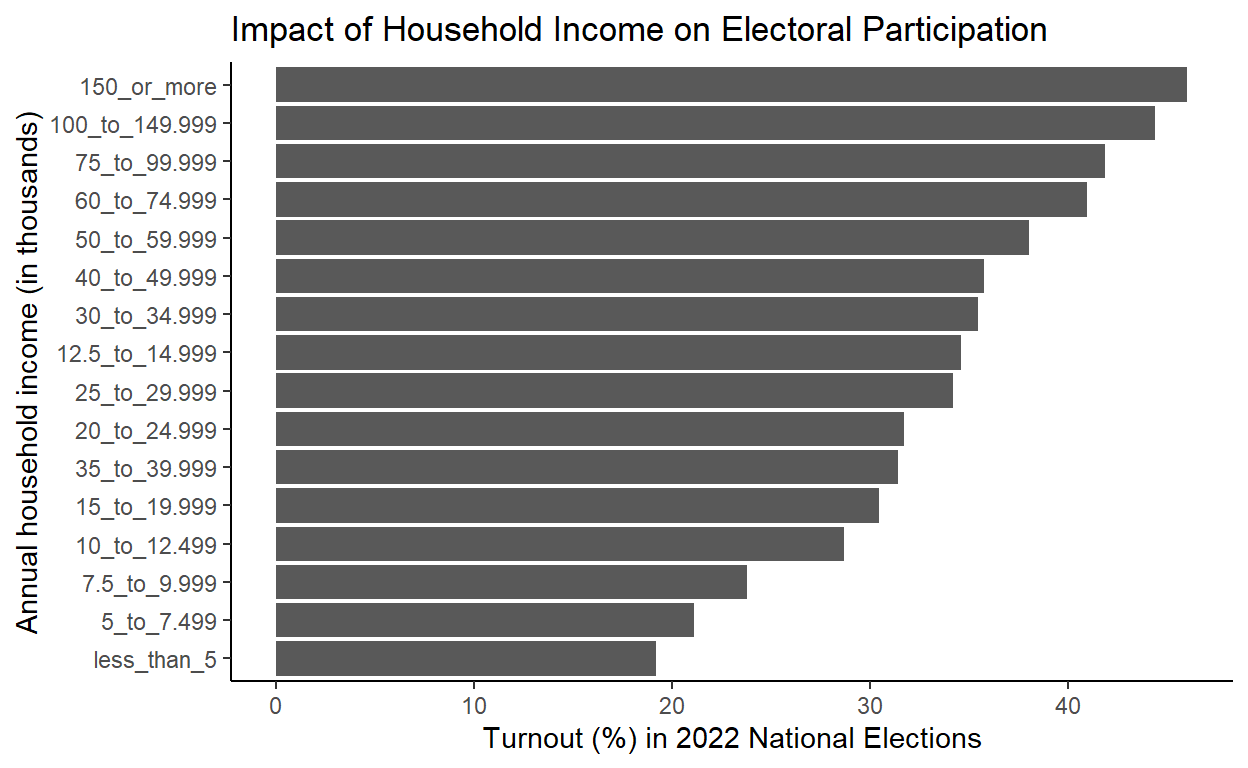
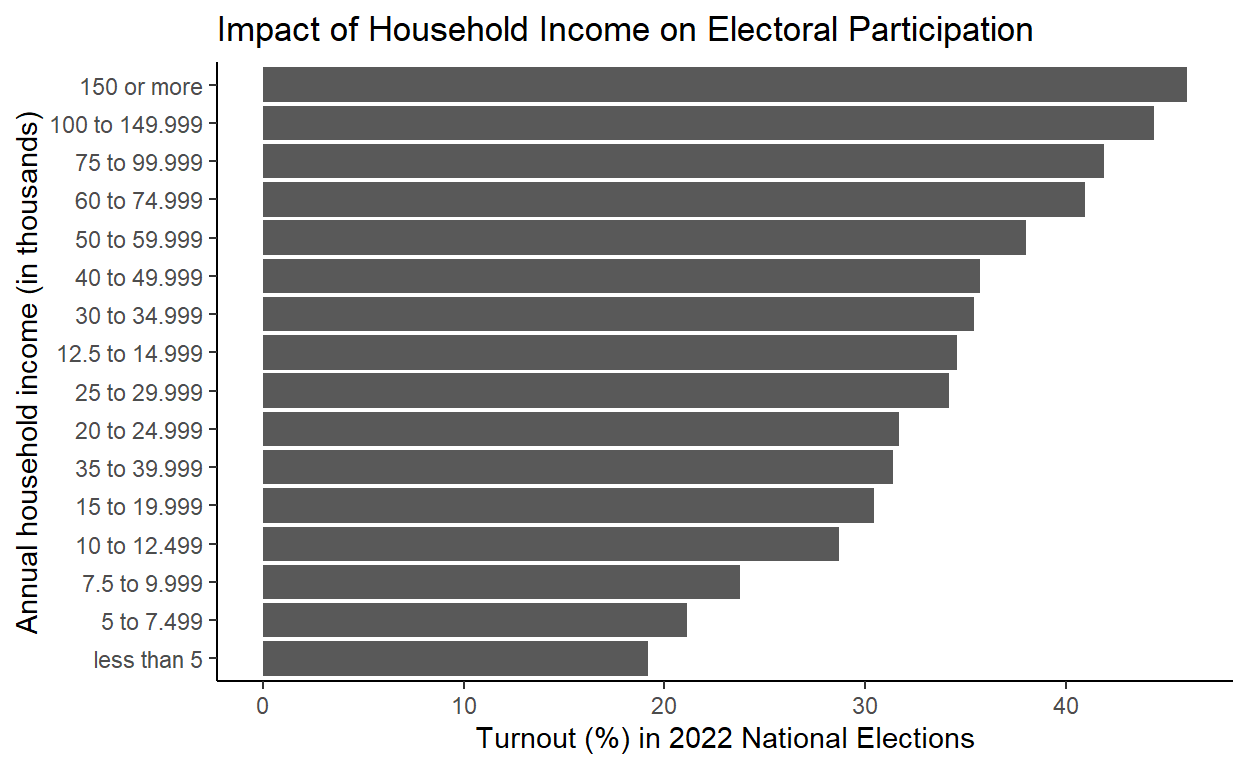
updated labels and names

diff --git a/index.html b/index.html
@@ -90,7 +90,7 @@ code span.wa { color: #5e5e5e; font-style: italic; } /* Warning */
   <!--radix_placeholder_meta_tags-->
   <title>Gov 50 Final Project</title>
 
-  <meta property="description" itemprop="description" content="Owen&#39;s final project, tentatively on the relationship between class of work and democratic participation."/>
+  <meta property="description" itemprop="description" content="Owen&#39;s final project on the relationship between employment class and democratic participation."/>
 
 
   <meta name="article:author" content="Owen Ebose"/>
@@ -98,19 +98,19 @@ code span.wa { color: #5e5e5e; font-style: italic; } /* Warning */
   <!--  https://developers.facebook.com/docs/sharing/webmasters#markup -->
   <meta property="og:title" content="Gov 50 Final Project"/>
   <meta property="og:type" content="article"/>
-  <meta property="og:description" content="Owen&#39;s final project, tentatively on the relationship between class of work and democratic participation."/>
+  <meta property="og:description" content="Owen&#39;s final project on the relationship between employment class and democratic participation."/>
   <meta property="og:locale" content="en_US"/>
 
   <!--  https://dev.twitter.com/cards/types/summary -->
   <meta property="twitter:card" content="summary"/>
   <meta property="twitter:title" content="Gov 50 Final Project"/>
-  <meta property="twitter:description" content="Owen&#39;s final project, tentatively on the relationship between class of work and democratic participation."/>
+  <meta property="twitter:description" content="Owen&#39;s final project on the relationship between employment class and democratic participation."/>
 
   <!--/radix_placeholder_meta_tags-->
   <!--radix_placeholder_rmarkdown_metadata-->
 
   <script type="text/json" id="radix-rmarkdown-metadata">
-  {"type":"list","attributes":{"names":{"type":"character","attributes":{},"value":["title","author","description","output"]}},"value":[{"type":"character","attributes":{},"value":["Gov 50 Final Project"]},{"type":"list","attributes":{},"value":[{"type":"list","attributes":{"names":{"type":"character","attributes":{},"value":["name"]}},"value":[{"type":"character","attributes":{},"value":["Owen Ebose"]}]}]},{"type":"character","attributes":{},"value":["Owen's final project, tentatively on the relationship between class of work and democratic participation."]},{"type":"list","attributes":{"names":{"type":"character","attributes":{},"value":["distill::distill_article"]}},"value":[{"type":"list","attributes":{"names":{"type":"character","attributes":{},"value":["self_contained"]}},"value":[{"type":"logical","attributes":{},"value":[false]}]}]}]}
+  {"type":"list","attributes":{"names":{"type":"character","attributes":{},"value":["title","author","description","output"]}},"value":[{"type":"character","attributes":{},"value":["Gov 50 Final Project"]},{"type":"list","attributes":{},"value":[{"type":"list","attributes":{"names":{"type":"character","attributes":{},"value":["name"]}},"value":[{"type":"character","attributes":{},"value":["Owen Ebose"]}]}]},{"type":"character","attributes":{},"value":["Owen's final project on the relationship between employment class and democratic participation."]},{"type":"list","attributes":{"names":{"type":"character","attributes":{},"value":["distill::distill_article"]}},"value":[{"type":"list","attributes":{"names":{"type":"character","attributes":{},"value":["self_contained"]}},"value":[{"type":"logical","attributes":{},"value":[false]}]}]}]}
   </script>
   <!--/radix_placeholder_rmarkdown_metadata-->
   
@@ -1493,7 +1493,7 @@ code span.wa { color: #5e5e5e; font-style: italic; } /* Warning */
 <!--radix_placeholder_front_matter-->
 
 <script id="distill-front-matter" type="text/json">
-{"title":"Gov 50 Final Project","description":"Owen's final project, tentatively on the relationship between class of work and democratic participation.","authors":[{"author":"Owen Ebose","authorURL":"#","affiliation":"&nbsp;","affiliationURL":"#","orcidID":""}]}
+{"title":"Gov 50 Final Project","description":"Owen's final project on the relationship between employment class and democratic participation.","authors":[{"author":"Owen Ebose","authorURL":"#","affiliation":"&nbsp;","affiliationURL":"#","orcidID":""}]}
 </script>
 
 <!--/radix_placeholder_front_matter-->
@@ -1506,7 +1506,7 @@ code span.wa { color: #5e5e5e; font-style: italic; } /* Warning */
 <h1>Gov 50 Final Project</h1>
 <!--radix_placeholder_categories-->
 <!--/radix_placeholder_categories-->
-<p>Owen’s final project, tentatively on the relationship between class of work and democratic participation.</p>
+<p>Owen’s final project on the relationship between employment class and democratic participation.</p>
 </div>
 
 <div class="d-byline">
@@ -1518,10 +1518,11 @@ code span.wa { color: #5e5e5e; font-style: italic; } /* Warning */
 
 <div class="d-article">
 <p><em>(Older milestones below)</em></p>
-<p>##Milestone 3</p>
+<h2 id="milestone-3">Milestone 3</h2>
 <div class="layout-chunk" data-layout="l-body">
 <div class="sourceCode">
 <pre class="sourceCode r"><code class="sourceCode r"><span><span class='kw'><a href='https://rdrr.io/r/base/library.html'>library</a></span><span class='op'>(</span><span class='va'><a href='https://tidyverse.tidyverse.org'>tidyverse</a></span><span class='op'>)</span></span>
+<span><span class='kw'><a href='https://rdrr.io/r/base/library.html'>library</a></span><span class='op'>(</span><span class='va'><a href='https://stringr.tidyverse.org'>stringr</a></span><span class='op'>)</span></span>
 <span></span>
 <span><span class='co'>#loading data</span></span>
 <span></span>
@@ -1530,56 +1531,57 @@ code span.wa { color: #5e5e5e; font-style: italic; } /* Warning */
 <span><span class='co'>#selecting variables </span></span>
 <span></span>
 <span><span class='co'>#census &lt;- census_raw |&gt;</span></span>
-<span><span class='co'>#  select(employment=PEIO1COW, vote=PES1, income_code=HEFAMINC)</span></span>
+<span>  <span class='co'>#select(employment_class=PEIO1COW, voted=PES1, income_code=HEFAMINC)</span></span>
 <span></span>
 <span><span class='co'>#write.csv(census,"census.csv")</span></span>
 <span></span>
 <span><span class='va'>census</span> <span class='op'>&lt;-</span> <span class='fu'><a href='https://readr.tidyverse.org/reference/read_delim.html'>read_csv</a></span><span class='op'>(</span><span class='st'>"census.csv"</span><span class='op'>)</span></span>
+<span></span>
 <span><span class='co'>#replacing coded values</span></span>
 <span></span>
-<span><span class='va'>census</span><span class='op'>$</span><span class='va'>employment</span> <span class='op'>&lt;-</span> <span class='va'>census</span><span class='op'>$</span><span class='va'>employment</span> <span class='op'>|&gt;</span></span>
-<span>  <span class='fu'><a href='https://dplyr.tidyverse.org/reference/case_match.html'>case_match</a></span><span class='op'>(</span><span class='fl'>1</span> <span class='op'>~</span> <span class='st'>"fed_gov"</span>,</span>
-<span>             <span class='fl'>2</span> <span class='op'>~</span> <span class='st'>"state_gov"</span>,</span>
-<span>             <span class='fl'>3</span> <span class='op'>~</span> <span class='st'>"local_gov"</span>, </span>
-<span>             <span class='fl'>4</span> <span class='op'>~</span> <span class='st'>"for_prof"</span>,</span>
-<span>             <span class='fl'>5</span> <span class='op'>~</span> <span class='st'>"non_prof"</span>,</span>
-<span>             <span class='fl'>6</span> <span class='op'>~</span> <span class='st'>"self_empl_incorp"</span>,</span>
-<span>             <span class='fl'>7</span> <span class='op'>~</span> <span class='st'>"self_empl_unincorp"</span>,</span>
-<span>             <span class='fl'>8</span> <span class='op'>~</span> <span class='st'>"without_pay"</span>,</span>
+<span><span class='va'>census</span><span class='op'>$</span><span class='va'>employment_class</span> <span class='op'>&lt;-</span> <span class='va'>census</span><span class='op'>$</span><span class='va'>employment_class</span> <span class='op'>|&gt;</span></span>
+<span>  <span class='fu'><a href='https://dplyr.tidyverse.org/reference/case_match.html'>case_match</a></span><span class='op'>(</span><span class='fl'>1</span> <span class='op'>~</span> <span class='st'>"Federal gov't"</span>,</span>
+<span>             <span class='fl'>2</span> <span class='op'>~</span> <span class='st'>"State gov't"</span>,</span>
+<span>             <span class='fl'>3</span> <span class='op'>~</span> <span class='st'>"Local gov't"</span>, </span>
+<span>             <span class='fl'>4</span> <span class='op'>~</span> <span class='st'>"For profit"</span>,</span>
+<span>             <span class='fl'>5</span> <span class='op'>~</span> <span class='st'>"Non profit"</span>,</span>
+<span>             <span class='fl'>6</span> <span class='op'>~</span> <span class='st'>"Self-employed Inc."</span>,</span>
+<span>             <span class='fl'>7</span> <span class='op'>~</span> <span class='st'>"Self-employed Non-Inc."</span>,</span>
+<span>             <span class='fl'>8</span> <span class='op'>~</span> <span class='st'>"Unpaid"</span>,</span>
 <span>             .default<span class='op'>=</span><span class='st'>"other"</span><span class='op'>)</span></span>
 <span></span>
-<span><span class='va'>census</span><span class='op'>$</span><span class='va'>vote</span> <span class='op'>&lt;-</span> <span class='va'>census</span><span class='op'>$</span><span class='va'>vote</span> <span class='op'>|&gt;</span></span>
+<span><span class='va'>census</span><span class='op'>$</span><span class='va'>voted</span> <span class='op'>&lt;-</span> <span class='va'>census</span><span class='op'>$</span><span class='va'>voted</span> <span class='op'>|&gt;</span></span>
 <span>  <span class='fu'><a href='https://dplyr.tidyverse.org/reference/case_match.html'>case_match</a></span><span class='op'>(</span><span class='fl'>1</span> <span class='op'>~</span> <span class='st'>"yes"</span>,</span>
 <span>             <span class='fl'>2</span> <span class='op'>~</span> <span class='st'>"no"</span>,</span>
 <span>             .default<span class='op'>=</span><span class='st'>"other"</span><span class='op'>)</span></span>
 <span></span>
-<span><span class='va'>census</span><span class='op'>$</span><span class='va'>income</span> <span class='op'>&lt;-</span> <span class='va'>census</span><span class='op'>$</span><span class='va'>income_code</span> <span class='op'>|&gt;</span></span>
+<span><span class='va'>census</span><span class='op'>$</span><span class='va'>household_income</span> <span class='op'>&lt;-</span> <span class='va'>census</span><span class='op'>$</span><span class='va'>income_code</span> <span class='op'>|&gt;</span></span>
 <span>  <span class='fu'><a href='https://dplyr.tidyverse.org/reference/case_match.html'>case_match</a></span><span class='op'>(</span><span class='op'>-</span><span class='fl'>1</span> <span class='op'>~</span> <span class='st'>"other"</span>,</span>
-<span>             <span class='fl'>1</span> <span class='op'>~</span> <span class='st'>"less_than_5"</span>,</span>
-<span>             <span class='fl'>2</span> <span class='op'>~</span> <span class='st'>"5_to_7.499"</span>,</span>
-<span>             <span class='fl'>3</span> <span class='op'>~</span> <span class='st'>"7.5_to_9.999"</span>, </span>
-<span>             <span class='fl'>4</span> <span class='op'>~</span> <span class='st'>"10_to_12.499"</span>,</span>
-<span>             <span class='fl'>5</span> <span class='op'>~</span> <span class='st'>"12.5_to_14.999"</span>,</span>
-<span>             <span class='fl'>6</span> <span class='op'>~</span> <span class='st'>"15_to_19.999"</span>,</span>
-<span>             <span class='fl'>7</span> <span class='op'>~</span> <span class='st'>"20_to_24.999"</span>,</span>
-<span>             <span class='fl'>8</span> <span class='op'>~</span> <span class='st'>"25_to_29.999"</span>,</span>
-<span>             <span class='fl'>9</span> <span class='op'>~</span> <span class='st'>"30_to_34.999"</span>,</span>
-<span>             <span class='fl'>10</span> <span class='op'>~</span> <span class='st'>"35_to_39.999"</span>,</span>
-<span>             <span class='fl'>11</span> <span class='op'>~</span> <span class='st'>"40_to_49.999"</span>,</span>
-<span>             <span class='fl'>12</span> <span class='op'>~</span> <span class='st'>"50_to_59.999"</span>,</span>
-<span>             <span class='fl'>13</span> <span class='op'>~</span> <span class='st'>"60_to_74.999"</span>,</span>
-<span>             <span class='fl'>14</span> <span class='op'>~</span> <span class='st'>"75_to_99.999"</span>,</span>
-<span>             <span class='fl'>15</span> <span class='op'>~</span> <span class='st'>"100_to_149.999"</span>,</span>
-<span>             <span class='fl'>16</span> <span class='op'>~</span> <span class='st'>"150_or_more"</span><span class='op'>)</span></span>
+<span>             <span class='fl'>1</span> <span class='op'>~</span> <span class='st'>"less than 5"</span>,</span>
+<span>             <span class='fl'>2</span> <span class='op'>~</span> <span class='st'>"5 to 7.499"</span>,</span>
+<span>             <span class='fl'>3</span> <span class='op'>~</span> <span class='st'>"7.5 to 9.999"</span>, </span>
+<span>             <span class='fl'>4</span> <span class='op'>~</span> <span class='st'>"10 to 12.499"</span>,</span>
+<span>             <span class='fl'>5</span> <span class='op'>~</span> <span class='st'>"12.5 to 14.999"</span>,</span>
+<span>             <span class='fl'>6</span> <span class='op'>~</span> <span class='st'>"15 to 19.999"</span>,</span>
+<span>             <span class='fl'>7</span> <span class='op'>~</span> <span class='st'>"20 to 24.999"</span>,</span>
+<span>             <span class='fl'>8</span> <span class='op'>~</span> <span class='st'>"25 to 29.999"</span>,</span>
+<span>             <span class='fl'>9</span> <span class='op'>~</span> <span class='st'>"30 to 34.999"</span>,</span>
+<span>             <span class='fl'>10</span> <span class='op'>~</span> <span class='st'>"35 to 39.999"</span>,</span>
+<span>             <span class='fl'>11</span> <span class='op'>~</span> <span class='st'>"40 to 49.999"</span>,</span>
+<span>             <span class='fl'>12</span> <span class='op'>~</span> <span class='st'>"50 to 59.999"</span>,</span>
+<span>             <span class='fl'>13</span> <span class='op'>~</span> <span class='st'>"60 to 74.999"</span>,</span>
+<span>             <span class='fl'>14</span> <span class='op'>~</span> <span class='st'>"75 to 99.999"</span>,</span>
+<span>             <span class='fl'>15</span> <span class='op'>~</span> <span class='st'>"100 to 149.999"</span>,</span>
+<span>             <span class='fl'>16</span> <span class='op'>~</span> <span class='st'>"150 or more"</span><span class='op'>)</span></span>
 <span></span>
 <span><span class='co'>#calculating turnout rates by employment class</span></span>
 <span></span>
 <span><span class='va'>employment_turnout</span> <span class='op'>&lt;-</span> <span class='va'>census</span> <span class='op'>|&gt;</span></span>
-<span>  <span class='fu'><a href='https://dplyr.tidyverse.org/reference/group_by.html'>group_by</a></span><span class='op'>(</span><span class='va'>employment</span>, <span class='va'>vote</span><span class='op'>)</span> <span class='op'>|&gt;</span></span>
+<span>  <span class='fu'><a href='https://dplyr.tidyverse.org/reference/group_by.html'>group_by</a></span><span class='op'>(</span><span class='va'>employment_class</span>, <span class='va'>voted</span><span class='op'>)</span> <span class='op'>|&gt;</span></span>
 <span>  <span class='fu'><a href='https://dplyr.tidyverse.org/reference/summarise.html'>summarize</a></span><span class='op'>(</span>n <span class='op'>=</span> <span class='fu'><a href='https://dplyr.tidyverse.org/reference/context.html'>n</a></span><span class='op'>(</span><span class='op'>)</span><span class='op'>)</span> <span class='op'>|&gt;</span></span>
 <span>  <span class='fu'><a href='https://dplyr.tidyverse.org/reference/mutate.html'>mutate</a></span><span class='op'>(</span>prop <span class='op'>=</span> <span class='va'>n</span> <span class='op'>/</span> <span class='fu'><a href='https://rdrr.io/r/base/sum.html'>sum</a></span><span class='op'>(</span><span class='va'>n</span><span class='op'>)</span> <span class='op'>*</span><span class='fl'>100</span><span class='op'>)</span> <span class='op'>|&gt;</span></span>
-<span>  <span class='fu'><a href='https://dplyr.tidyverse.org/reference/filter.html'>filter</a></span><span class='op'>(</span><span class='va'>vote</span> <span class='op'>==</span> <span class='st'>"yes"</span><span class='op'>)</span> <span class='op'>|&gt;</span></span>
-<span>  <span class='fu'><a href='https://dplyr.tidyverse.org/reference/select.html'>select</a></span><span class='op'>(</span><span class='op'>-</span><span class='va'>vote</span>, <span class='op'>-</span><span class='va'>n</span><span class='op'>)</span> <span class='op'>|&gt;</span></span>
+<span>  <span class='fu'><a href='https://dplyr.tidyverse.org/reference/filter.html'>filter</a></span><span class='op'>(</span><span class='va'>voted</span> <span class='op'>==</span> <span class='st'>"yes"</span><span class='op'>)</span> <span class='op'>|&gt;</span></span>
+<span>  <span class='fu'><a href='https://dplyr.tidyverse.org/reference/select.html'>select</a></span><span class='op'>(</span><span class='op'>-</span><span class='va'>voted</span>, <span class='op'>-</span><span class='va'>n</span><span class='op'>)</span> <span class='op'>|&gt;</span></span>
 <span>  <span class='fu'><a href='https://dplyr.tidyverse.org/reference/mutate.html'>mutate</a></span><span class='op'>(</span>prop <span class='op'>=</span> <span class='fu'><a href='https://rdrr.io/r/base/Round.html'>round</a></span><span class='op'>(</span><span class='va'>prop</span>, digits <span class='op'>=</span> <span class='fl'>2</span><span class='op'>)</span><span class='op'>)</span> <span class='op'>|&gt;</span></span>
 <span>  <span class='fu'><a href='https://dplyr.tidyverse.org/reference/rename.html'>rename</a></span><span class='op'>(</span>turnout <span class='op'>=</span> <span class='va'>prop</span><span class='op'>)</span></span>
 <span></span>
@@ -1588,46 +1590,46 @@ code span.wa { color: #5e5e5e; font-style: italic; } /* Warning */
 <table>
 <thead>
 <tr class="header">
-<th style="text-align: left;">employment</th>
+<th style="text-align: left;">employment_class</th>
 <th style="text-align: right;">turnout</th>
 </tr>
 </thead>
 <tbody>
 <tr class="odd">
-<td style="text-align: left;">fed_gov</td>
+<td style="text-align: left;">Federal gov’t</td>
 <td style="text-align: right;">58.36</td>
 </tr>
 <tr class="even">
-<td style="text-align: left;">for_prof</td>
+<td style="text-align: left;">For profit</td>
 <td style="text-align: right;">42.33</td>
 </tr>
 <tr class="odd">
-<td style="text-align: left;">local_gov</td>
+<td style="text-align: left;">Local gov’t</td>
 <td style="text-align: right;">63.00</td>
 </tr>
 <tr class="even">
-<td style="text-align: left;">non_prof</td>
+<td style="text-align: left;">Non profit</td>
 <td style="text-align: right;">59.37</td>
+</tr>
+<tr class="odd">
+<td style="text-align: left;">Self-employed Inc.</td>
+<td style="text-align: right;">58.79</td>
+</tr>
+<tr class="even">
+<td style="text-align: left;">Self-employed Non-Inc.</td>
+<td style="text-align: right;">53.61</td>
+</tr>
+<tr class="odd">
+<td style="text-align: left;">State gov’t</td>
+<td style="text-align: right;">62.52</td>
+</tr>
+<tr class="even">
+<td style="text-align: left;">Unpaid</td>
+<td style="text-align: right;">40.91</td>
 </tr>
 <tr class="odd">
 <td style="text-align: left;">other</td>
 <td style="text-align: right;">20.51</td>
-</tr>
-<tr class="even">
-<td style="text-align: left;">self_empl_incorp</td>
-<td style="text-align: right;">58.79</td>
-</tr>
-<tr class="odd">
-<td style="text-align: left;">self_empl_unincorp</td>
-<td style="text-align: right;">53.61</td>
-</tr>
-<tr class="even">
-<td style="text-align: left;">state_gov</td>
-<td style="text-align: right;">62.52</td>
-</tr>
-<tr class="odd">
-<td style="text-align: left;">without_pay</td>
-<td style="text-align: right;">40.91</td>
 </tr>
 </tbody>
 </table>
@@ -1635,15 +1637,21 @@ code span.wa { color: #5e5e5e; font-style: italic; } /* Warning */
 <pre class="sourceCode r"><code class="sourceCode r"><span><span class='co'>#plotting turnout rates by employment class</span></span>
 <span></span>
 <span><span class='va'>employment_turnout_plot</span> <span class='op'>&lt;-</span> <span class='va'>employment_turnout</span> <span class='op'>|&gt;</span></span>
-<span>  <span class='fu'><a href='https://ggplot2.tidyverse.org/reference/ggplot.html'>ggplot</a></span><span class='op'>(</span>mapping <span class='op'>=</span> <span class='fu'><a href='https://ggplot2.tidyverse.org/reference/aes.html'>aes</a></span><span class='op'>(</span>x <span class='op'>=</span> <span class='fu'><a href='https://forcats.tidyverse.org/reference/fct_reorder.html'>fct_reorder</a></span><span class='op'>(</span><span class='va'>employment</span>, <span class='va'>turnout</span><span class='op'>)</span>, y <span class='op'>=</span> <span class='va'>turnout</span><span class='op'>)</span><span class='op'>)</span> <span class='op'>+</span></span>
+<span>  <span class='fu'><a href='https://ggplot2.tidyverse.org/reference/ggplot.html'>ggplot</a></span><span class='op'>(</span>mapping <span class='op'>=</span> <span class='fu'><a href='https://ggplot2.tidyverse.org/reference/aes.html'>aes</a></span><span class='op'>(</span>x <span class='op'>=</span> <span class='fu'><a href='https://forcats.tidyverse.org/reference/fct_reorder.html'>fct_reorder</a></span><span class='op'>(</span><span class='va'>employment_class</span>, <span class='va'>turnout</span><span class='op'>)</span>, y <span class='op'>=</span> <span class='va'>turnout</span><span class='op'>)</span><span class='op'>)</span> <span class='op'>+</span></span>
 <span>  <span class='fu'><a href='https://ggplot2.tidyverse.org/reference/geom_bar.html'>geom_col</a></span><span class='op'>(</span><span class='op'>)</span> <span class='op'>+</span></span>
 <span>  <span class='fu'><a href='https://ggplot2.tidyverse.org/reference/coord_flip.html'>coord_flip</a></span><span class='op'>(</span><span class='op'>)</span> <span class='op'>+</span></span>
 <span>  <span class='fu'><a href='https://ggplot2.tidyverse.org/reference/labs.html'>labs</a></span><span class='op'>(</span></span>
 <span>    title <span class='op'>=</span> <span class='st'>"Impact of Employment Class on Electoral Participation"</span>,</span>
 <span>    x <span class='op'>=</span> <span class='st'>"Employment class"</span>,</span>
-<span>    y <span class='op'>=</span> <span class='st'>"Turnout (%) in 2022 national elections"</span></span>
+<span>    y <span class='op'>=</span> <span class='st'>"Turnout (%) in 2022 national elections"</span>,</span>
+<span>    caption <span class='op'>=</span> <span class='st'>"Note: Employment class categorizes workers according to the type of ownership of the employing organization. This variable identifies whether the respondent is self-employed, works in the private sector, or in government. (U.S. Census Bureau)"</span></span>
 <span>  <span class='op'>)</span> <span class='op'>+</span></span>
-<span>  <span class='fu'><a href='https://ggplot2.tidyverse.org/reference/ggtheme.html'>theme_classic</a></span><span class='op'>(</span><span class='op'>)</span></span>
+<span>  <span class='fu'><a href='https://ggplot2.tidyverse.org/reference/ggtheme.html'>theme_classic</a></span><span class='op'>(</span><span class='op'>)</span> <span class='op'>+</span></span>
+<span>  <span class='fu'><a href='https://ggplot2.tidyverse.org/reference/theme.html'>theme</a></span><span class='op'>(</span>plot.margin <span class='op'>=</span> <span class='fu'><a href='https://ggplot2.tidyverse.org/reference/element.html'>margin</a></span><span class='op'>(</span>b <span class='op'>=</span> <span class='fl'>10</span><span class='op'>)</span><span class='op'>)</span></span>
+<span></span>
+<span><span class='va'>wrapped_caption</span> <span class='op'>&lt;-</span> <span class='fu'><a href='https://stringr.tidyverse.org/reference/str_wrap.html'>str_wrap</a></span><span class='op'>(</span><span class='st'>"Note: Employment class categorizes workers according to the type of ownership of the employing organization. This variable identifies whether the respondent is self-employed, works in the private sector, or in government. (U.S. Census Bureau)"</span>, width <span class='op'>=</span> <span class='fl'>112</span><span class='op'>)</span></span>
+<span></span>
+<span><span class='va'>employment_turnout_plot</span> <span class='op'>&lt;-</span> <span class='va'>employment_turnout_plot</span> <span class='op'>+</span> <span class='fu'><a href='https://ggplot2.tidyverse.org/reference/labs.html'>labs</a></span><span class='op'>(</span>caption <span class='op'>=</span> <span class='va'>wrapped_caption</span><span class='op'>)</span></span>
 <span></span>
 <span><span class='va'>employment_turnout_plot</span></span></code></pre>
 </div>
@@ -1652,11 +1660,11 @@ code span.wa { color: #5e5e5e; font-style: italic; } /* Warning */
 <pre class="sourceCode r"><code class="sourceCode r"><span><span class='co'>#calculating turnout rates by income group </span></span>
 <span></span>
 <span><span class='va'>income_turnout</span> <span class='op'>&lt;-</span> <span class='va'>census</span> <span class='op'>|&gt;</span></span>
-<span>  <span class='fu'><a href='https://dplyr.tidyverse.org/reference/group_by.html'>group_by</a></span><span class='op'>(</span><span class='va'>income</span>, <span class='va'>vote</span><span class='op'>)</span> <span class='op'>|&gt;</span></span>
+<span>  <span class='fu'><a href='https://dplyr.tidyverse.org/reference/group_by.html'>group_by</a></span><span class='op'>(</span><span class='va'>household_income</span>, <span class='va'>voted</span><span class='op'>)</span> <span class='op'>|&gt;</span></span>
 <span>  <span class='fu'><a href='https://dplyr.tidyverse.org/reference/summarise.html'>summarize</a></span><span class='op'>(</span>n <span class='op'>=</span> <span class='fu'><a href='https://dplyr.tidyverse.org/reference/context.html'>n</a></span><span class='op'>(</span><span class='op'>)</span><span class='op'>)</span> <span class='op'>|&gt;</span></span>
 <span>  <span class='fu'><a href='https://dplyr.tidyverse.org/reference/mutate.html'>mutate</a></span><span class='op'>(</span>prop <span class='op'>=</span> <span class='va'>n</span> <span class='op'>/</span> <span class='fu'><a href='https://rdrr.io/r/base/sum.html'>sum</a></span><span class='op'>(</span><span class='va'>n</span><span class='op'>)</span> <span class='op'>*</span><span class='fl'>100</span><span class='op'>)</span> <span class='op'>|&gt;</span></span>
-<span>  <span class='fu'><a href='https://dplyr.tidyverse.org/reference/filter.html'>filter</a></span><span class='op'>(</span><span class='va'>vote</span> <span class='op'>==</span> <span class='st'>"yes"</span><span class='op'>)</span> <span class='op'>|&gt;</span></span>
-<span>  <span class='fu'><a href='https://dplyr.tidyverse.org/reference/select.html'>select</a></span><span class='op'>(</span><span class='op'>-</span><span class='va'>vote</span>, <span class='op'>-</span><span class='va'>n</span><span class='op'>)</span> <span class='op'>|&gt;</span></span>
+<span>  <span class='fu'><a href='https://dplyr.tidyverse.org/reference/filter.html'>filter</a></span><span class='op'>(</span><span class='va'>voted</span> <span class='op'>==</span> <span class='st'>"yes"</span><span class='op'>)</span> <span class='op'>|&gt;</span></span>
+<span>  <span class='fu'><a href='https://dplyr.tidyverse.org/reference/select.html'>select</a></span><span class='op'>(</span><span class='op'>-</span><span class='va'>voted</span>, <span class='op'>-</span><span class='va'>n</span><span class='op'>)</span> <span class='op'>|&gt;</span></span>
 <span>  <span class='fu'><a href='https://dplyr.tidyverse.org/reference/mutate.html'>mutate</a></span><span class='op'>(</span>prop <span class='op'>=</span> <span class='fu'><a href='https://rdrr.io/r/base/Round.html'>round</a></span><span class='op'>(</span><span class='va'>prop</span>, digits <span class='op'>=</span> <span class='fl'>2</span><span class='op'>)</span><span class='op'>)</span> <span class='op'>|&gt;</span></span>
 <span>  <span class='fu'><a href='https://dplyr.tidyverse.org/reference/rename.html'>rename</a></span><span class='op'>(</span>turnout <span class='op'>=</span> <span class='va'>prop</span><span class='op'>)</span></span>
 <span></span>
@@ -1665,73 +1673,73 @@ code span.wa { color: #5e5e5e; font-style: italic; } /* Warning */
 <table>
 <thead>
 <tr class="header">
-<th style="text-align: left;">income</th>
+<th style="text-align: left;">household_income</th>
 <th style="text-align: right;">turnout</th>
 </tr>
 </thead>
 <tbody>
 <tr class="odd">
-<td style="text-align: left;">100_to_149.999</td>
-<td style="text-align: right;">44.39</td>
-</tr>
-<tr class="even">
-<td style="text-align: left;">10_to_12.499</td>
+<td style="text-align: left;">10 to 12.499</td>
 <td style="text-align: right;">28.67</td>
 </tr>
+<tr class="even">
+<td style="text-align: left;">100 to 149.999</td>
+<td style="text-align: right;">44.39</td>
+</tr>
 <tr class="odd">
-<td style="text-align: left;">12.5_to_14.999</td>
+<td style="text-align: left;">12.5 to 14.999</td>
 <td style="text-align: right;">34.55</td>
 </tr>
 <tr class="even">
-<td style="text-align: left;">150_or_more</td>
-<td style="text-align: right;">46.00</td>
-</tr>
-<tr class="odd">
-<td style="text-align: left;">15_to_19.999</td>
+<td style="text-align: left;">15 to 19.999</td>
 <td style="text-align: right;">30.42</td>
 </tr>
+<tr class="odd">
+<td style="text-align: left;">150 or more</td>
+<td style="text-align: right;">46.00</td>
+</tr>
 <tr class="even">
-<td style="text-align: left;">20_to_24.999</td>
+<td style="text-align: left;">20 to 24.999</td>
 <td style="text-align: right;">31.69</td>
 </tr>
 <tr class="odd">
-<td style="text-align: left;">25_to_29.999</td>
+<td style="text-align: left;">25 to 29.999</td>
 <td style="text-align: right;">34.15</td>
 </tr>
 <tr class="even">
-<td style="text-align: left;">30_to_34.999</td>
+<td style="text-align: left;">30 to 34.999</td>
 <td style="text-align: right;">35.41</td>
 </tr>
 <tr class="odd">
-<td style="text-align: left;">35_to_39.999</td>
+<td style="text-align: left;">35 to 39.999</td>
 <td style="text-align: right;">31.38</td>
 </tr>
 <tr class="even">
-<td style="text-align: left;">40_to_49.999</td>
+<td style="text-align: left;">40 to 49.999</td>
 <td style="text-align: right;">35.72</td>
 </tr>
 <tr class="odd">
-<td style="text-align: left;">50_to_59.999</td>
-<td style="text-align: right;">38.00</td>
-</tr>
-<tr class="even">
-<td style="text-align: left;">5_to_7.499</td>
+<td style="text-align: left;">5 to 7.499</td>
 <td style="text-align: right;">21.10</td>
 </tr>
+<tr class="even">
+<td style="text-align: left;">50 to 59.999</td>
+<td style="text-align: right;">38.00</td>
+</tr>
 <tr class="odd">
-<td style="text-align: left;">60_to_74.999</td>
+<td style="text-align: left;">60 to 74.999</td>
 <td style="text-align: right;">40.92</td>
 </tr>
 <tr class="even">
-<td style="text-align: left;">7.5_to_9.999</td>
+<td style="text-align: left;">7.5 to 9.999</td>
 <td style="text-align: right;">23.75</td>
 </tr>
 <tr class="odd">
-<td style="text-align: left;">75_to_99.999</td>
+<td style="text-align: left;">75 to 99.999</td>
 <td style="text-align: right;">41.86</td>
 </tr>
 <tr class="even">
-<td style="text-align: left;">less_than_5</td>
+<td style="text-align: left;">less than 5</td>
 <td style="text-align: right;">19.19</td>
 </tr>
 </tbody>
@@ -1740,7 +1748,7 @@ code span.wa { color: #5e5e5e; font-style: italic; } /* Warning */
 <pre class="sourceCode r"><code class="sourceCode r"><span><span class='co'>#plotting turnout rates by income group</span></span>
 <span></span>
 <span><span class='va'>income_turnout_plot</span> <span class='op'>&lt;-</span> <span class='va'>income_turnout</span> <span class='op'>|&gt;</span></span>
-<span>  <span class='fu'><a href='https://ggplot2.tidyverse.org/reference/ggplot.html'>ggplot</a></span><span class='op'>(</span>mapping <span class='op'>=</span> <span class='fu'><a href='https://ggplot2.tidyverse.org/reference/aes.html'>aes</a></span><span class='op'>(</span>x <span class='op'>=</span> <span class='fu'><a href='https://forcats.tidyverse.org/reference/fct_reorder.html'>fct_reorder</a></span><span class='op'>(</span><span class='va'>income</span>, <span class='va'>turnout</span><span class='op'>)</span>, y <span class='op'>=</span> <span class='va'>turnout</span><span class='op'>)</span><span class='op'>)</span> <span class='op'>+</span></span>
+<span>  <span class='fu'><a href='https://ggplot2.tidyverse.org/reference/ggplot.html'>ggplot</a></span><span class='op'>(</span>mapping <span class='op'>=</span> <span class='fu'><a href='https://ggplot2.tidyverse.org/reference/aes.html'>aes</a></span><span class='op'>(</span>x <span class='op'>=</span> <span class='fu'><a href='https://forcats.tidyverse.org/reference/fct_reorder.html'>fct_reorder</a></span><span class='op'>(</span><span class='va'>household_income</span>, <span class='va'>turnout</span><span class='op'>)</span>, y <span class='op'>=</span> <span class='va'>turnout</span><span class='op'>)</span><span class='op'>)</span> <span class='op'>+</span></span>
 <span>  <span class='fu'><a href='https://ggplot2.tidyverse.org/reference/geom_bar.html'>geom_col</a></span><span class='op'>(</span><span class='op'>)</span> <span class='op'>+</span></span>
 <span>  <span class='fu'><a href='https://ggplot2.tidyverse.org/reference/coord_flip.html'>coord_flip</a></span><span class='op'>(</span><span class='op'>)</span> <span class='op'>+</span></span>
 <span>  <span class='fu'><a href='https://ggplot2.tidyverse.org/reference/labs.html'>labs</a></span><span class='op'>(</span></span>
